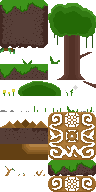
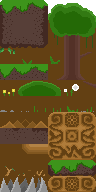
Added spikes to tilemap, commented out nextscenespawn line.

diff --git a/src/scenes/Tilemap.js b/src/scenes/Tilemap.js
@@ -239,7 +239,7 @@ class Tilemap extends Phaser.Scene {
         this.transfer = this.matter.add.rectangle(nextLevel.x + 15, nextLevel.y, 32, 120);
         this.player.setOnCollideWith(this.transfer, pair => {
             this.walk.stop();
-            tilemapHandler(map, matterTiles, tileset, terrainLayer, MatterTileBody);
+            //this.tilemapHandler(map, matterTiles, tileset, terrainLayer, MatterTileBody);
         });
     }
     //Respawns the player to the start of the map
